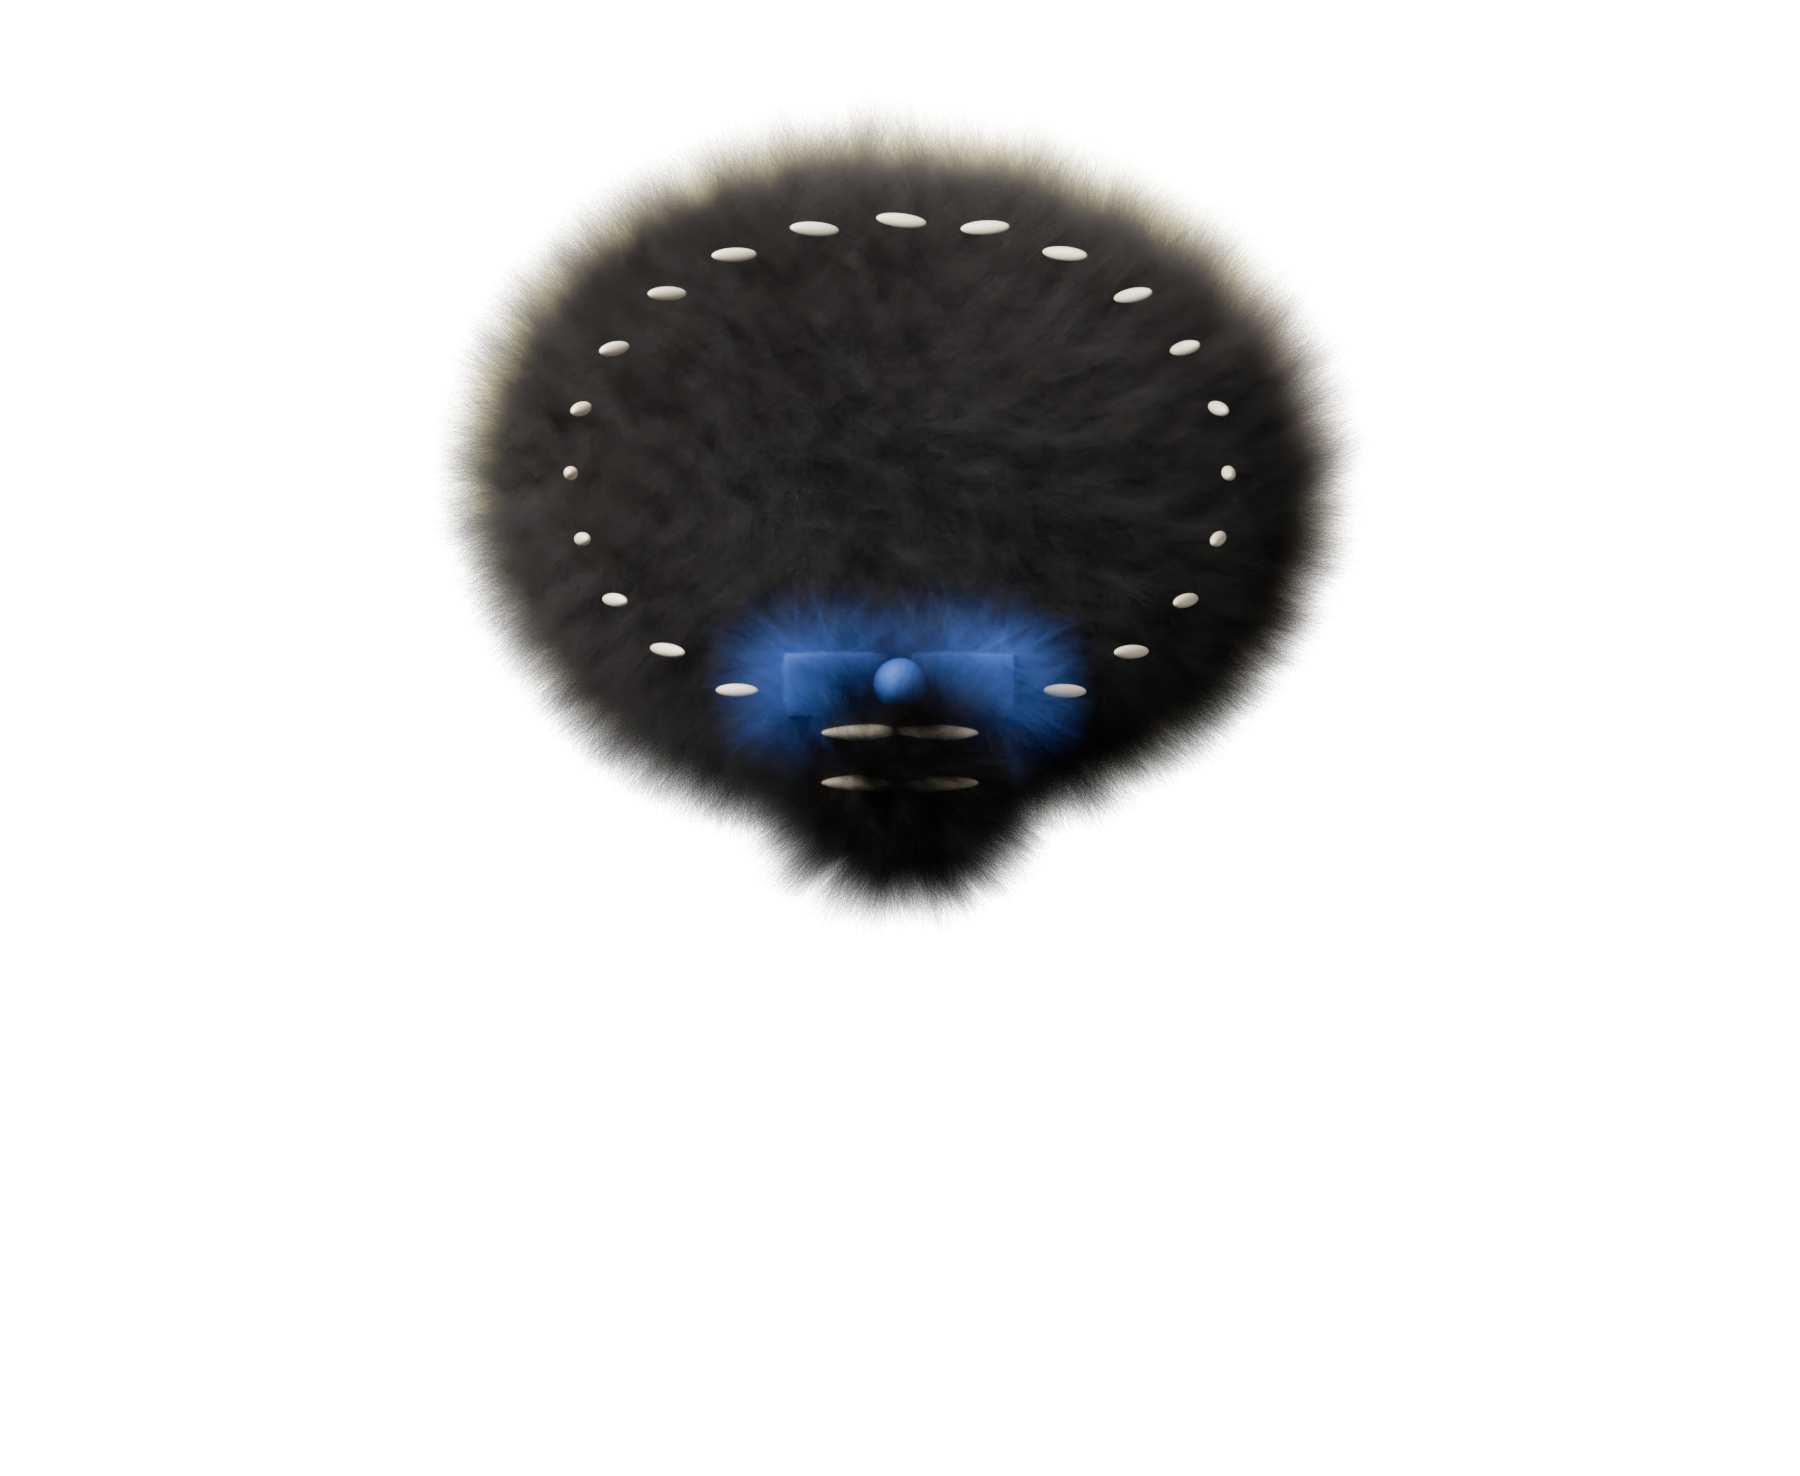
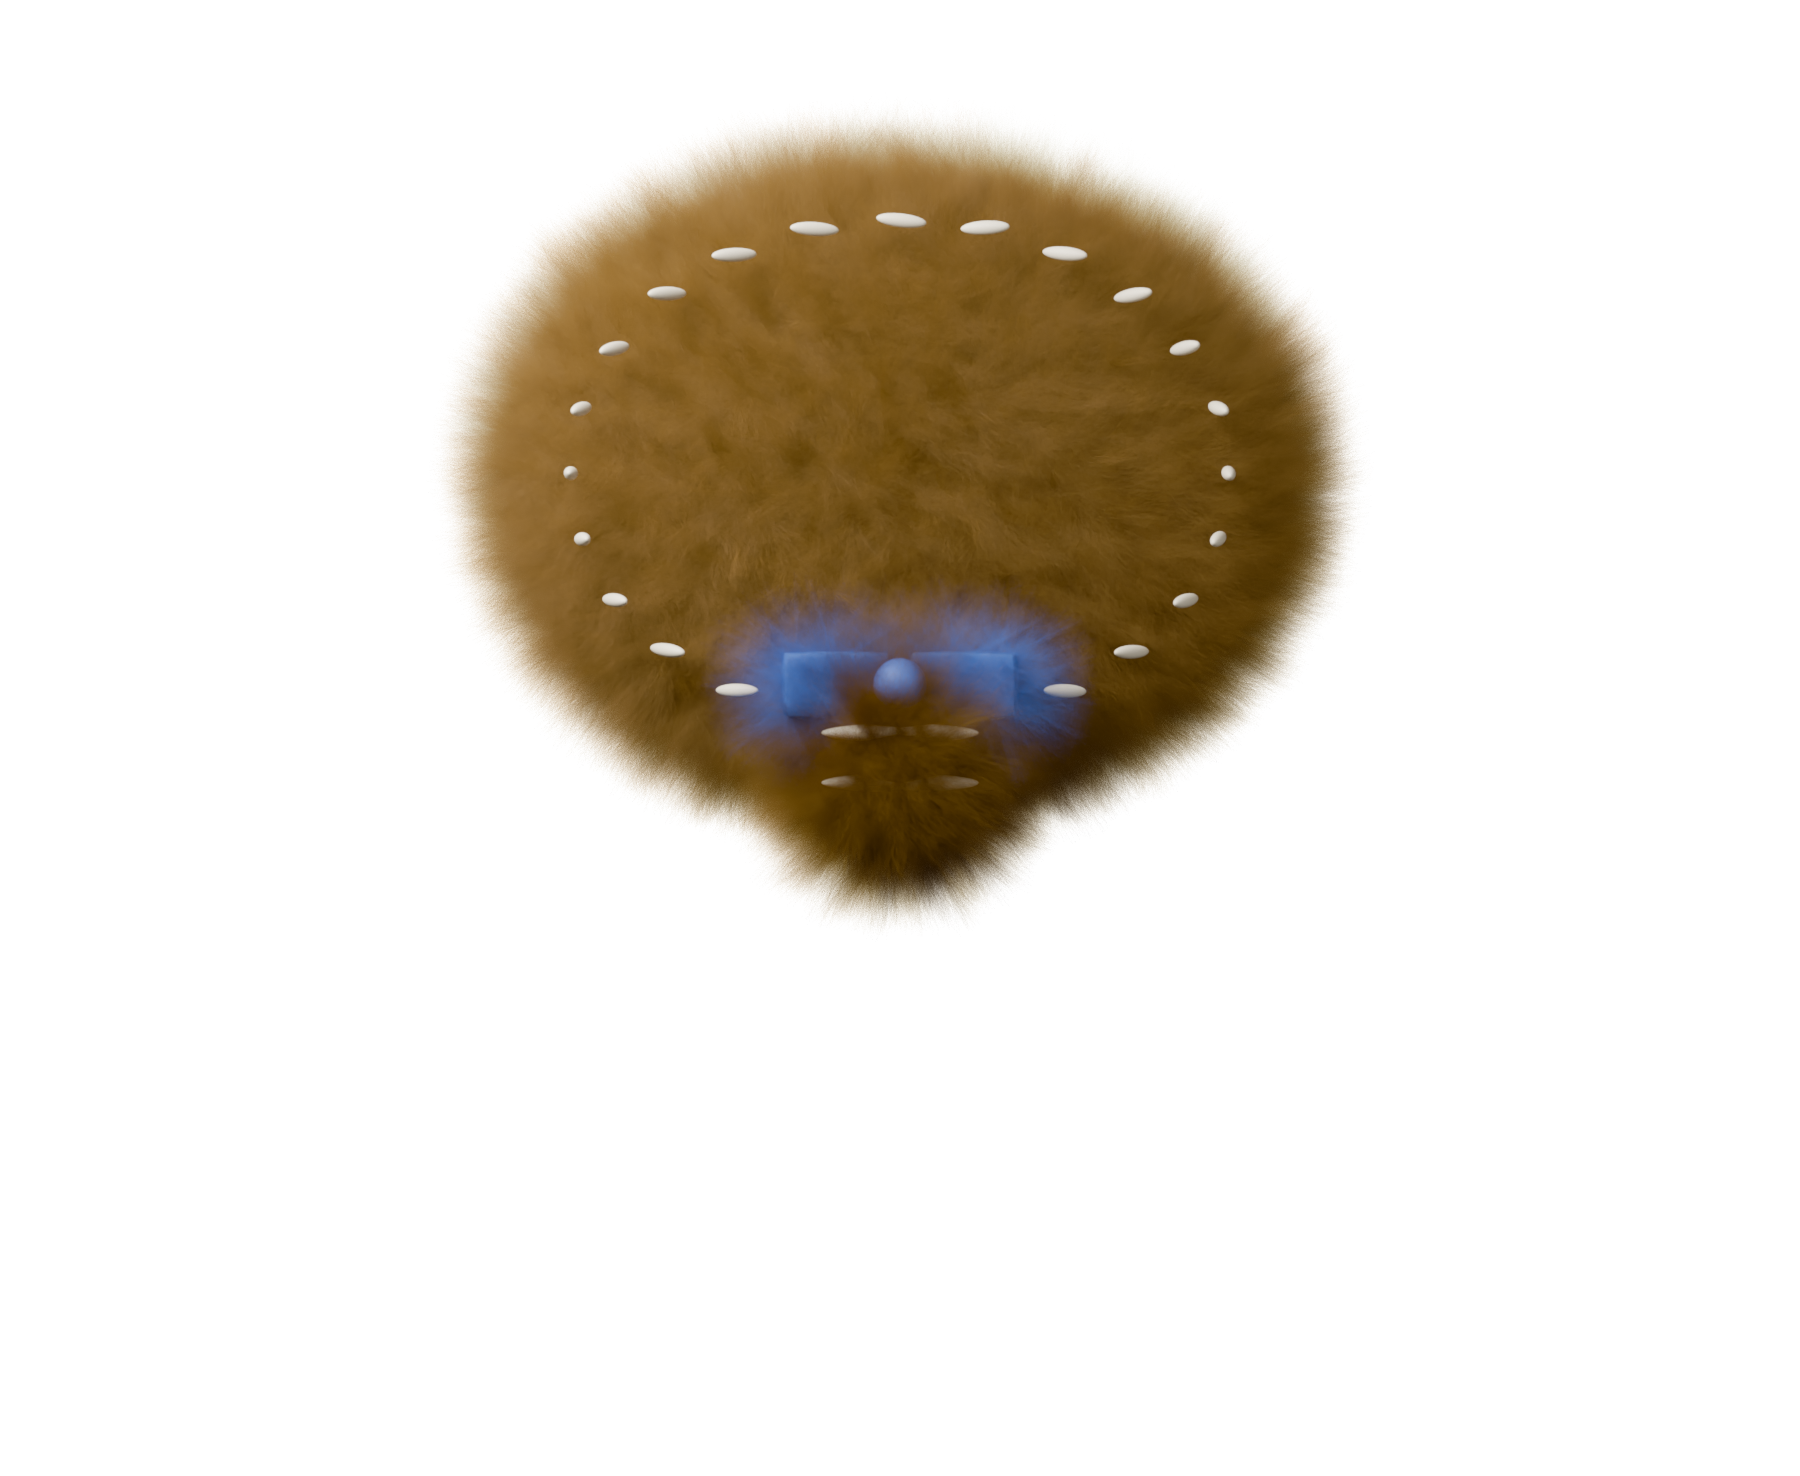
돌아섬 뒤통수를 몸색 Deep 짝으로 — 2/4 에서 멈춤(유호 「멈춰줘 렉이 너무 심해」 · 08-27)
돌아섬만 뒤통수가 넷 다 Ink Deep(거의 검정)이라 같은 날 확정한 유채 몸색이 그 열에서만
지워지고 있었다. 뒤통수 색을 몸색에서 파생하게 고쳤다(Soft→Deep · 표를 두 벌로 두면
몸색만 바꾼 날 뒤통수가 옛 색으로 남는다 · 킷에 짝이 없으면 옛 값으로 떨어진다).

boss-back(43.9분)·prof-back(6.4분) 두 장이 새 판으로 났고 lead-back 굽는 중에 끊었다.
🔴 굽기 폴더가 섞인 상태다 — 마치기 전에는 변환하지 않는다. 앱 자산은 넷 다 옛 판이라 일관하다.
내가 드린 「4장 52분」 예상은 틀렸다: 돌아섬은 뒤통수 털 30,000 가닥이 얹혀 훨씬 무겁다.

잇는 법 = node tools/NPC굽기.js --것 "lead-back,insp-back" --더 "받침=0,투명=1" --지면없이

Session-Id: local_65bc7270-6367-47b2-b1a3-e468f74a413e

Changed region(s): [[0.2489, 0.0935, 0.7467, 0.6233]]

diff --git a/tools/NPC세트굽기.py b/tools/NPC세트굽기.py
@@ -339,13 +339,23 @@ def _시안(bpy, math, random, g):
         눈반경 = 0.075 * (0.9 + 0.25 * 크기배)
 
         if 상태이름 == 'back':
+            # 뒤통수·묶음 색 = 몸색의 «Deep» 짝 (유호 확정 2026-08-27 「구워줘」).
+            #   옛 값은 넷 다 'Ink Deep'(거의 검정)이었다. 몸이 Oat(무채)이던 시절엔 「크림 몸 대
+            #   검은 머리」로 읽혔는데, 같은 날 몸색을 유채 넷으로 확정하자 **돌아섬에서만 네 역이
+            #   다시 검은 덩어리로 수렴**했다 — 반려문 「모든 npc가 다 똑같이 생겼고」가 겨눈 조건이
+            #   그 열에서만 되살아났고, 펠트 재질도 그 칸에서만 사라졌다.
+            #   Deep 짝은 여전히 어두워 «돌아섰다»는 그대로 읽히면서 역은 계속 갈린다.
+            # 🔑 몸색에서 **파생**한다 — 표를 두 벌로 두면 몸색을 바꾼 날 뒤통수만 옛 색으로 남는다.
+            #   킷에 그 짝이 없으면 옛 값으로 떨어뜨린다(조용히 KeyError 로 죽지 않는다).
+            뒤색후보 = 몸색.replace(' Soft', ' Deep')
+            뒤통수색 = 뒤색후보 if 뒤색후보 in 색 else 'Ink Deep'
             머리 = 구(반경 * 0.98, (0, 앞 - 0.06, 0.76))
             머리.scale = (가로배, 0.34, 세로배 * 1.02)
-            짧은퍼(머리, 'Ink Deep', 살재질('뒤통수', 색['Ink Deep']), 털재질('뒤통수', 색['Ink Deep']),
+            짧은퍼(머리, 뒤통수색, 살재질('뒤통수', 색[뒤통수색]), 털재질('뒤통수', 색[뒤통수색]),
                   길이=0.06, 개수=int(30000 * 크기배))
             머리.particle_systems[-1].settings.clump_factor = 0.34
             묶음 = 구(0.26 * 크기배, (0, 앞 - 0.30, 0.80 - 반높 * 0.94))
-            짧은퍼(묶음, 'Ink Deep', 살재질('묶음', 색['Ink Deep']), 털재질('묶음', 색['Ink Deep']),
+            짧은퍼(묶음, 뒤통수색, 살재질('묶음', 색[뒤통수색]), 털재질('묶음', 색[뒤통수색]),
                   길이=0.05, 개수=7000)
             묶음.particle_systems[-1].settings.clump_factor = 0.34
             손2 = random.Random(20260825)

diff --git a/docs/_ops/트랙.md b/docs/_ops/트랙.md
@@ -862,11 +862,27 @@ CSS 목업은 임시 비계다. 화면·부품을 블렌더로 굽는다.
 
 ### 2-G. NPC 배지 세트 — 유호 반려 08-24, 실측이 그 말을 그대로 확인했다
 
-✅🔴 **19/20 구웠다 — 마지막 `insp-back` 한 장만 남았다** (08-27 06:15:52~10:39 · 유호 지시
-  「npc 배지도 지금 펠트로 구워줘」 · 몸색 A안 넷 유호 확정 08-27)
-  · 산출 = `docs/캐릭터/NPC공방_0824/*.png` 19장(1800px · 샘플 256 · 누끼) · 지면 = `docs/NPC_시안.html`(19/20).
-  · 🔴 **남은 한 장 = `insp-back`.** 이어붙이는 법 — 한 줄이다:
-    `node tools/NPC굽기.js --이어 --더 "받침=0,투명=1"` (판정 축 = 장면 정본보다 새것인가 · 19장은 건너뛴다)
+✅ **20/20 구웠고 앱까지 갔다 · 학생 화면에 배선됐다** (08-27 · talk `744186c`)
+  · 산출 = `docs/캐릭터/NPC공방_0824/*.png` 20장(1800px · 샘플 256 · 누끼) · 지면 = `docs/NPC_시안.html`(20/20).
+  · 앱 자산 = talk `assets/npc/*.webp` 16장(336² · 알파 크롭) · 옛 평면 SVG 16종은 그 커밋에서 소각.
+  · 배선 = `src/NPC.js` + 게임 4모듈(G3 만 실시간 3단) + 검수문 ⑥ 칸. 에뮬레이터 실화면 확인 · JS 오류 0.
+
+🔴🔴 **멈춤 — 「돌아섬」 뒤통수 Deep 재굽기가 2/4 에서 끊겼다 (08-27 15:37~16:2x · 유호 「멈춰줘 렉이 너무 심해」)**
+  · 무엇을 고치려 했나: 돌아섬 상태의 뒤통수·묶음이 넷 다 `Ink Deep`(거의 검정)이라, 같은 날
+    확정한 몸색(유채 A안 넷)이 **그 열에서만 통째로 지워졌다** — 반려문 「다 똑같이 생겼고」가
+    돌아섬에서만 되살아났다. ⇒ 뒤통수 색을 **몸색에서 파생**(` Soft`→` Deep`)하게 고쳤다
+    (`tools/NPC세트굽기.py` · 유호 확정 08-27 「구워줘」 · 결정.md).
+  · 🔴 **지금 굽기 폴더는 «섞인 상태»다**: `boss-back`·`prof-back` = 새 Deep 판 ✅ ·
+    `lead-back`·`insp-back` = **옛 검정 판**. 그대로 변환하면 넷 중 둘만 색이 다른 세트가 나온다.
+  · ✅ **앱은 일관하다** — talk `assets/npc/*.webp` 는 넷 다 옛 판(10:59)이고 손대지 않았다.
+    **재굽기를 마치기 전에는 변환하지 않는다.**
+  · 잇는 법 — `--이어` 를 쓰지 않는다(장면 정본이 방금 움직여 20장 전량이 대상이 된다). 남은 둘만:
+    `node tools/NPC굽기.js --것 "lead-back,insp-back" --더 "받침=0,투명=1" --지면없이`
+    그 뒤 `node tools/NPC시트.js --방 docs/캐릭터/NPC공방_0824` → talk `python tools/NPC변환.py <그 폴더>`.
+  ⏱ 🔴 **내 예상이 틀렸다** — 「4장 ≈52분」이라 드렸는데 `boss-back` 한 장이 **43.9분**이었다
+    (`prof-back` 은 6.4분). 08-25 의 「장당 13.3분」도, 오늘 오전의 역별 표도 `back` 상태를 못 담는다:
+    돌아섬은 뒤통수 털 30,000 가닥이 얹혀 같은 역의 다른 상태보다 훨씬 무겁다.
+    ⇒ **다음 예상은 `back` 을 따로 잰 값으로 낸다**(memory: 표본 하나로 예상을 내지 않는다).
   · **왜 끊었나(버그 아님)**: 같은 역의 다른 상태가 2.1~2.3분인데 `insp-back` 이 **44분째** 기어갔다.
     CPU 를 두 번 재니 522→531초 = «돌긴 도는데 20% 속도», **RAM 여유 1.7GB** 였다. Arc 는 내장
     GPU라 시스템 램을 나눠 쓴다 — 램이 마르면 그 굽기는 무효다(memory detached-overnight-jobs).
